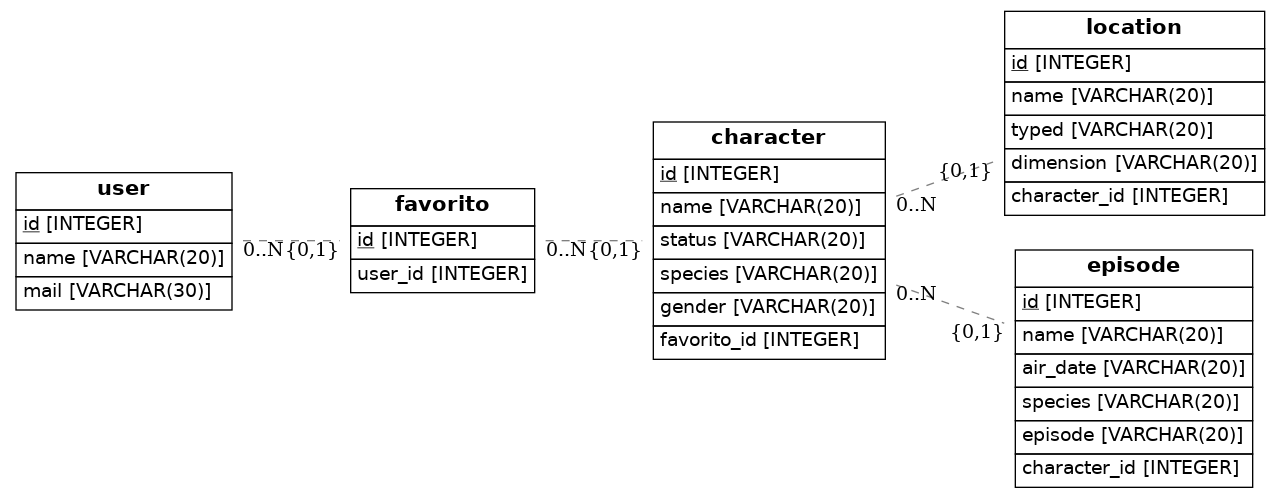
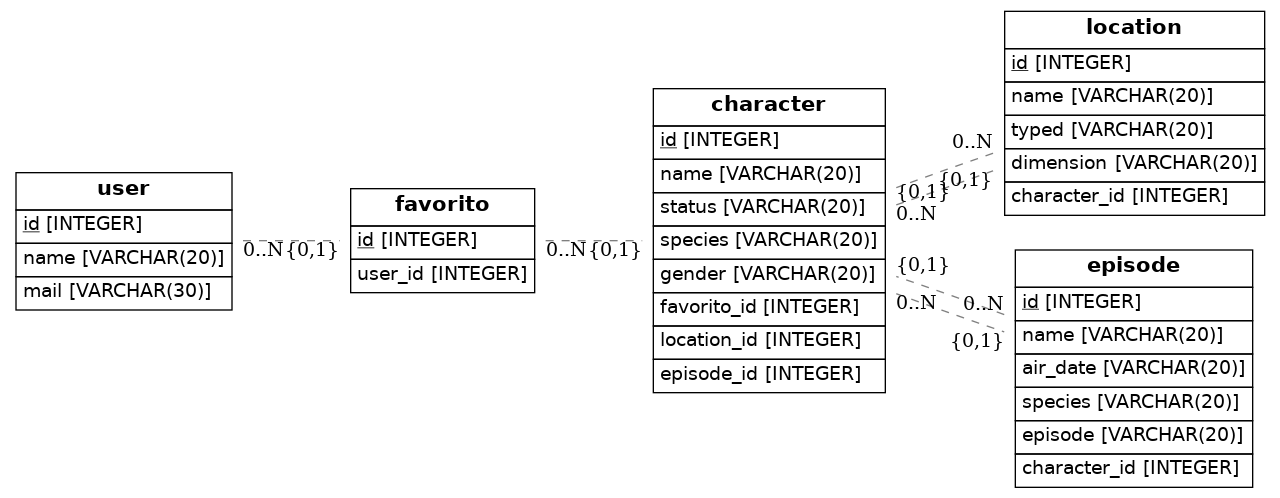
actualizacion modelo

diff --git a/src/models.py b/src/models.py
@@ -39,6 +39,8 @@ class Character(Base):
     characters = relationship("Location")
     characters_e = relationship("Episode")
     favorito_id = Column(Integer, ForeignKey("favorito.id"))
+    location_id = Column(Integer, ForeignKey("location.id"))
+    episode_id = Column(Integer, ForeignKey("episode.id"))
 
 class Episode(Base):
     __tablename__ = 'episode'
